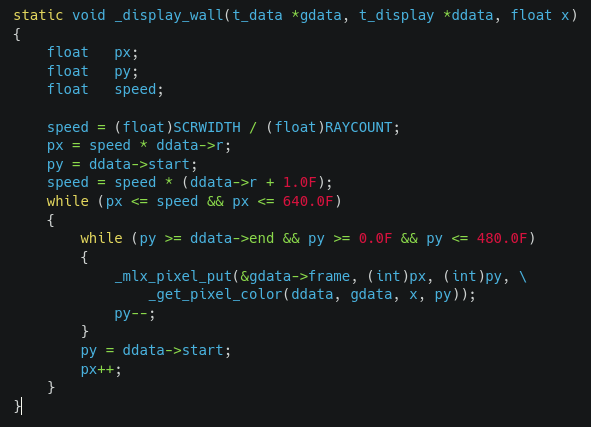
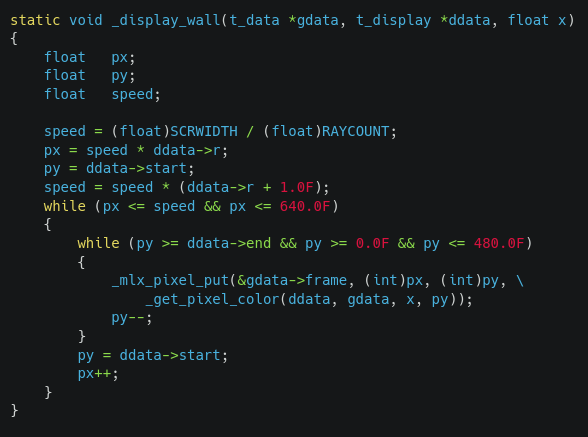
Redo pics

diff --git a/about.html b/about.html
@@ -75,7 +75,7 @@
                                 <span class="">(Command parser from string to node)</span>
                             </div>
                             <div class="flex flex-col items-center justify-center">
-                                <img src="public/minishell_heredoc.png" alt="minishell source code" height="400"/>
+                                <img src="public/minishell_heredoc.png" alt="minishell source code" height="400" />
                                 <span class="">(Heredoc implementation)</span>
                             </div>
                         </div>
@@ -89,11 +89,11 @@
                         functions
                     </p>
                     <div class="flex flex-col items-center justify-center">
-                        <img class="mt-4" src="public/cub3d_source_code.png" alt="cub3d source code" width="500" />
+                        <img class="mt-4" src="public/cub3d_dda_algo.png" alt="cub3d source code" width="500" />
                         <span class="">(Implementation of dda algorithm)</span>
                         <div class="flex flex-row mt-4 gap-4">
                             <div class="flex flex-col items-center justify-center">
-                                <img src="public/cub3d_source_code2.png" alt="cub3d source code" width="532"
+                                <img src="public/cub3d_display3d.png" alt="cub3d source code" width="532"
                                     height="300" />
                                 <span class="">(Simulating a 3D view of the map)</span>
                             </div>
@@ -133,7 +133,7 @@
                     <p>
                         Linux <br />
                         <span></span>
-                        <img src="arch-linux-arch-btw.gif" alt="i use arch btw" width="200" />
+                        <img src="public/arch-linux-arch-btw.gif" alt="i use arch btw" width="300" />
                     </p>
                 </div>
             </div>
